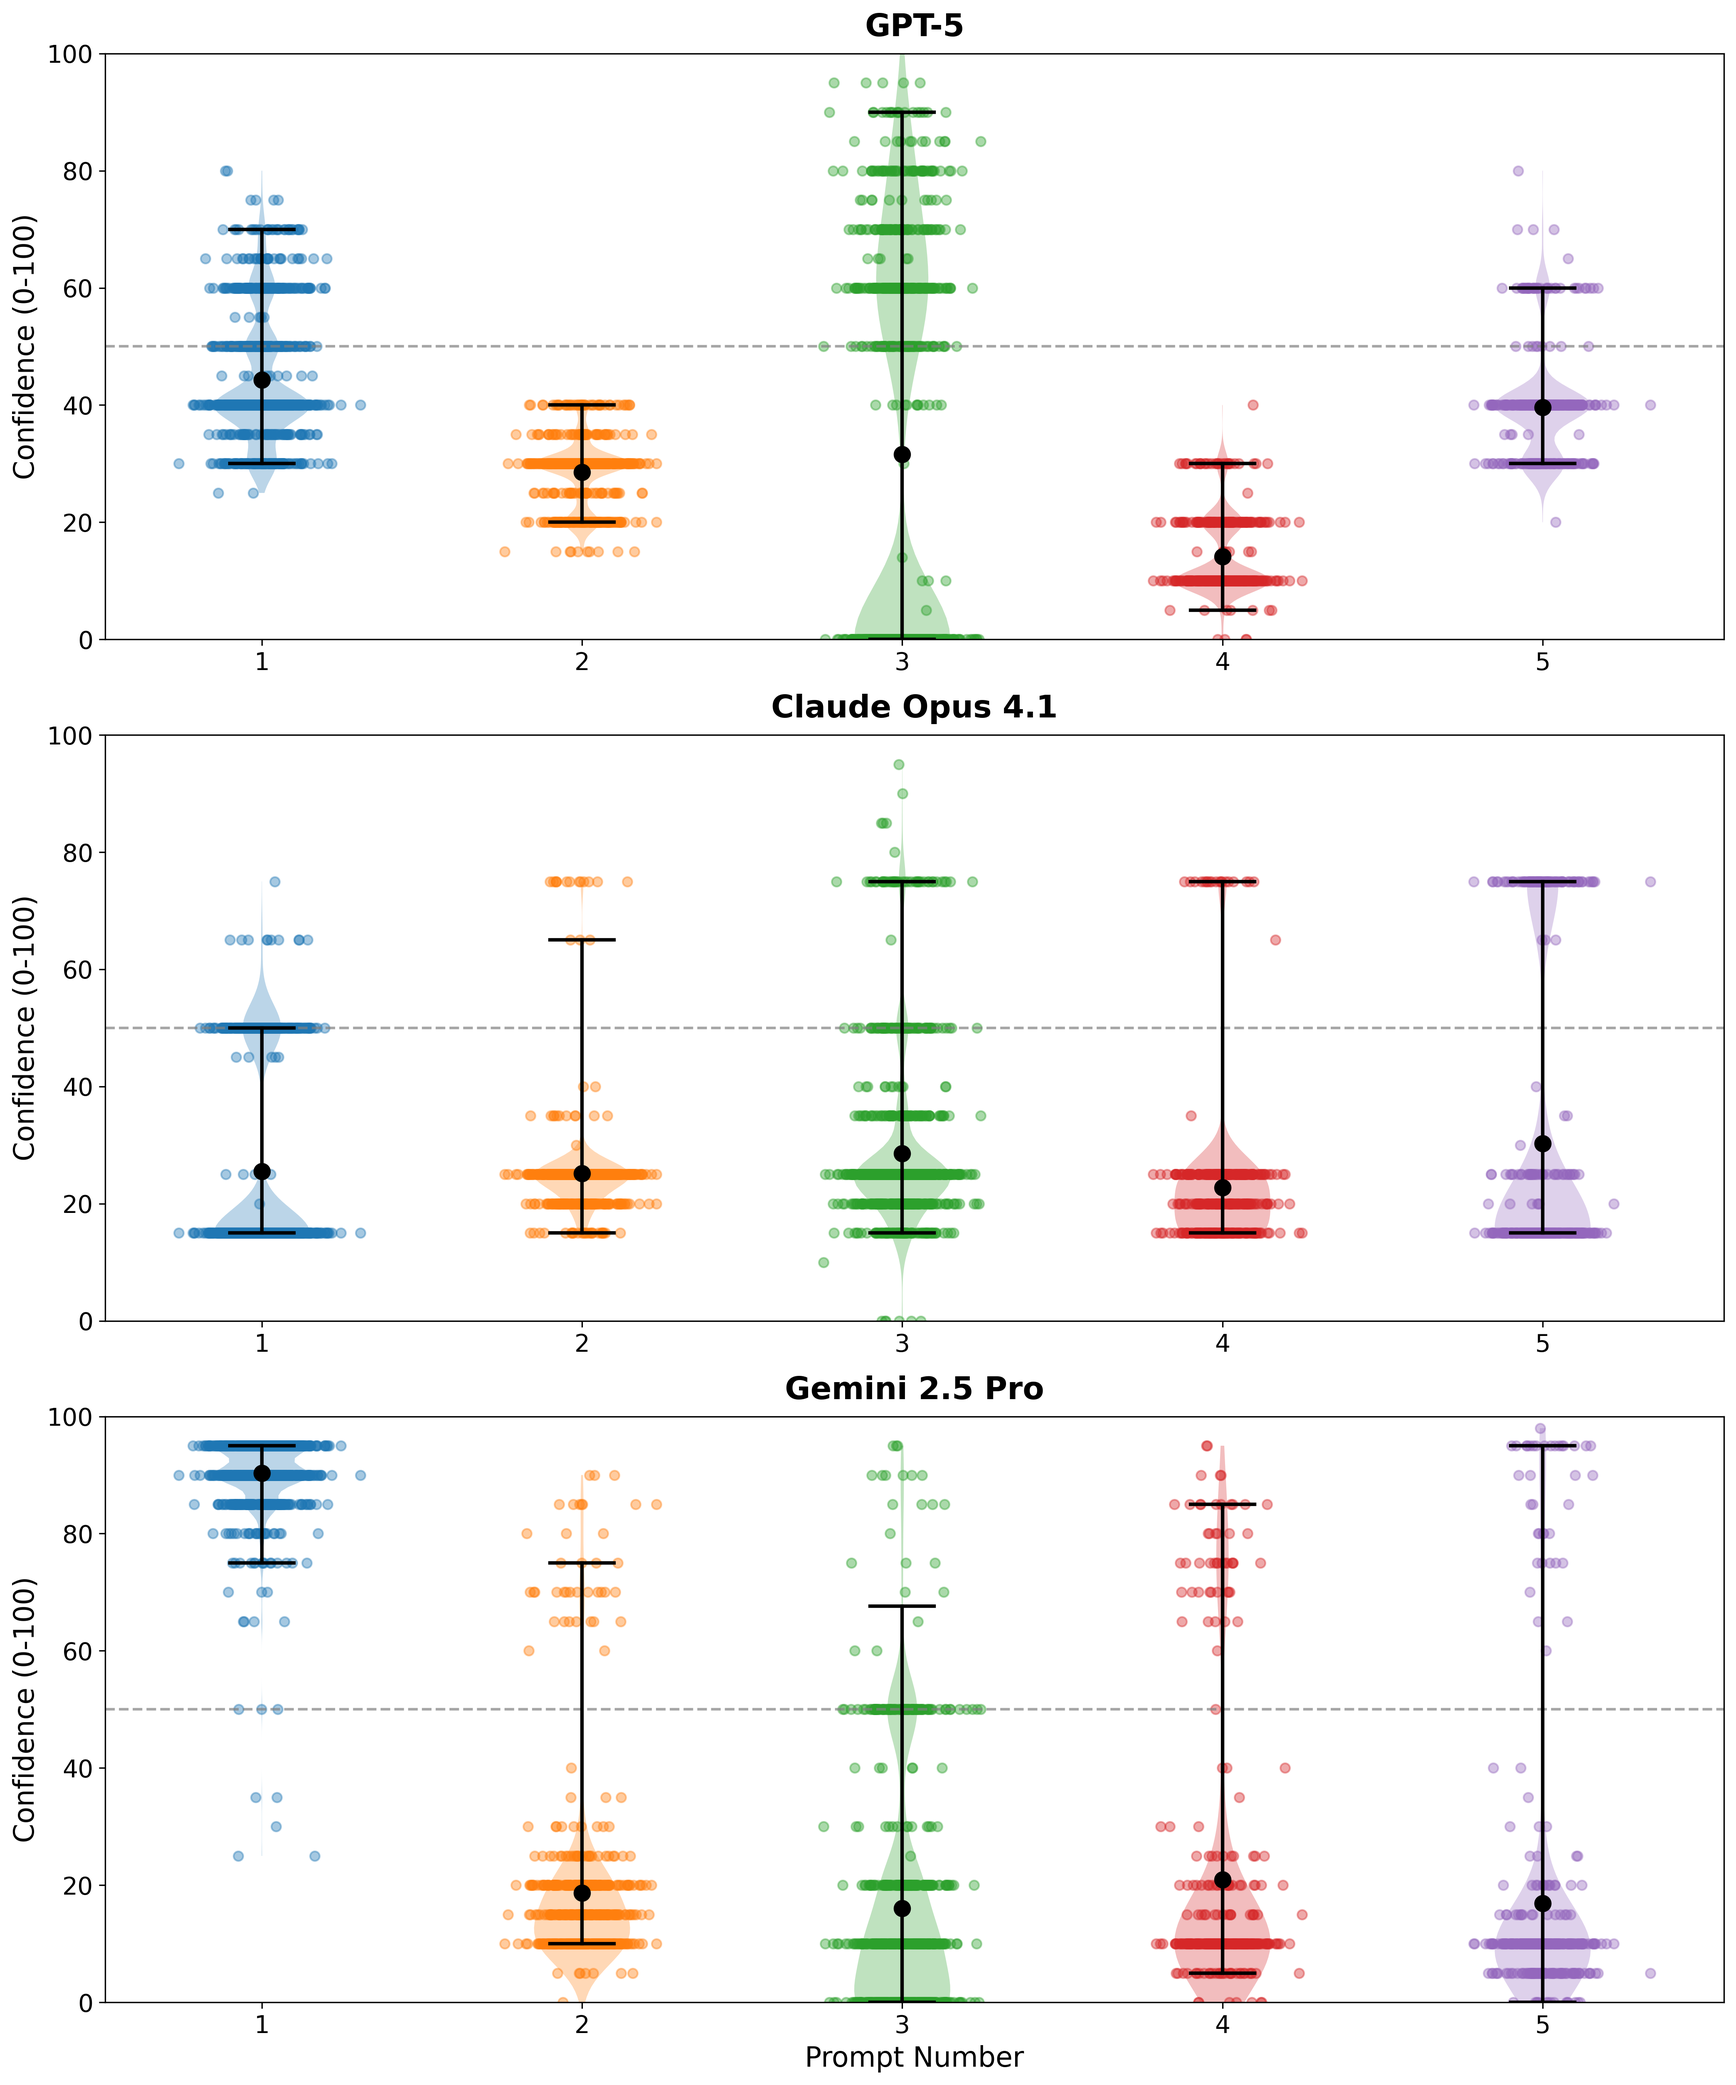
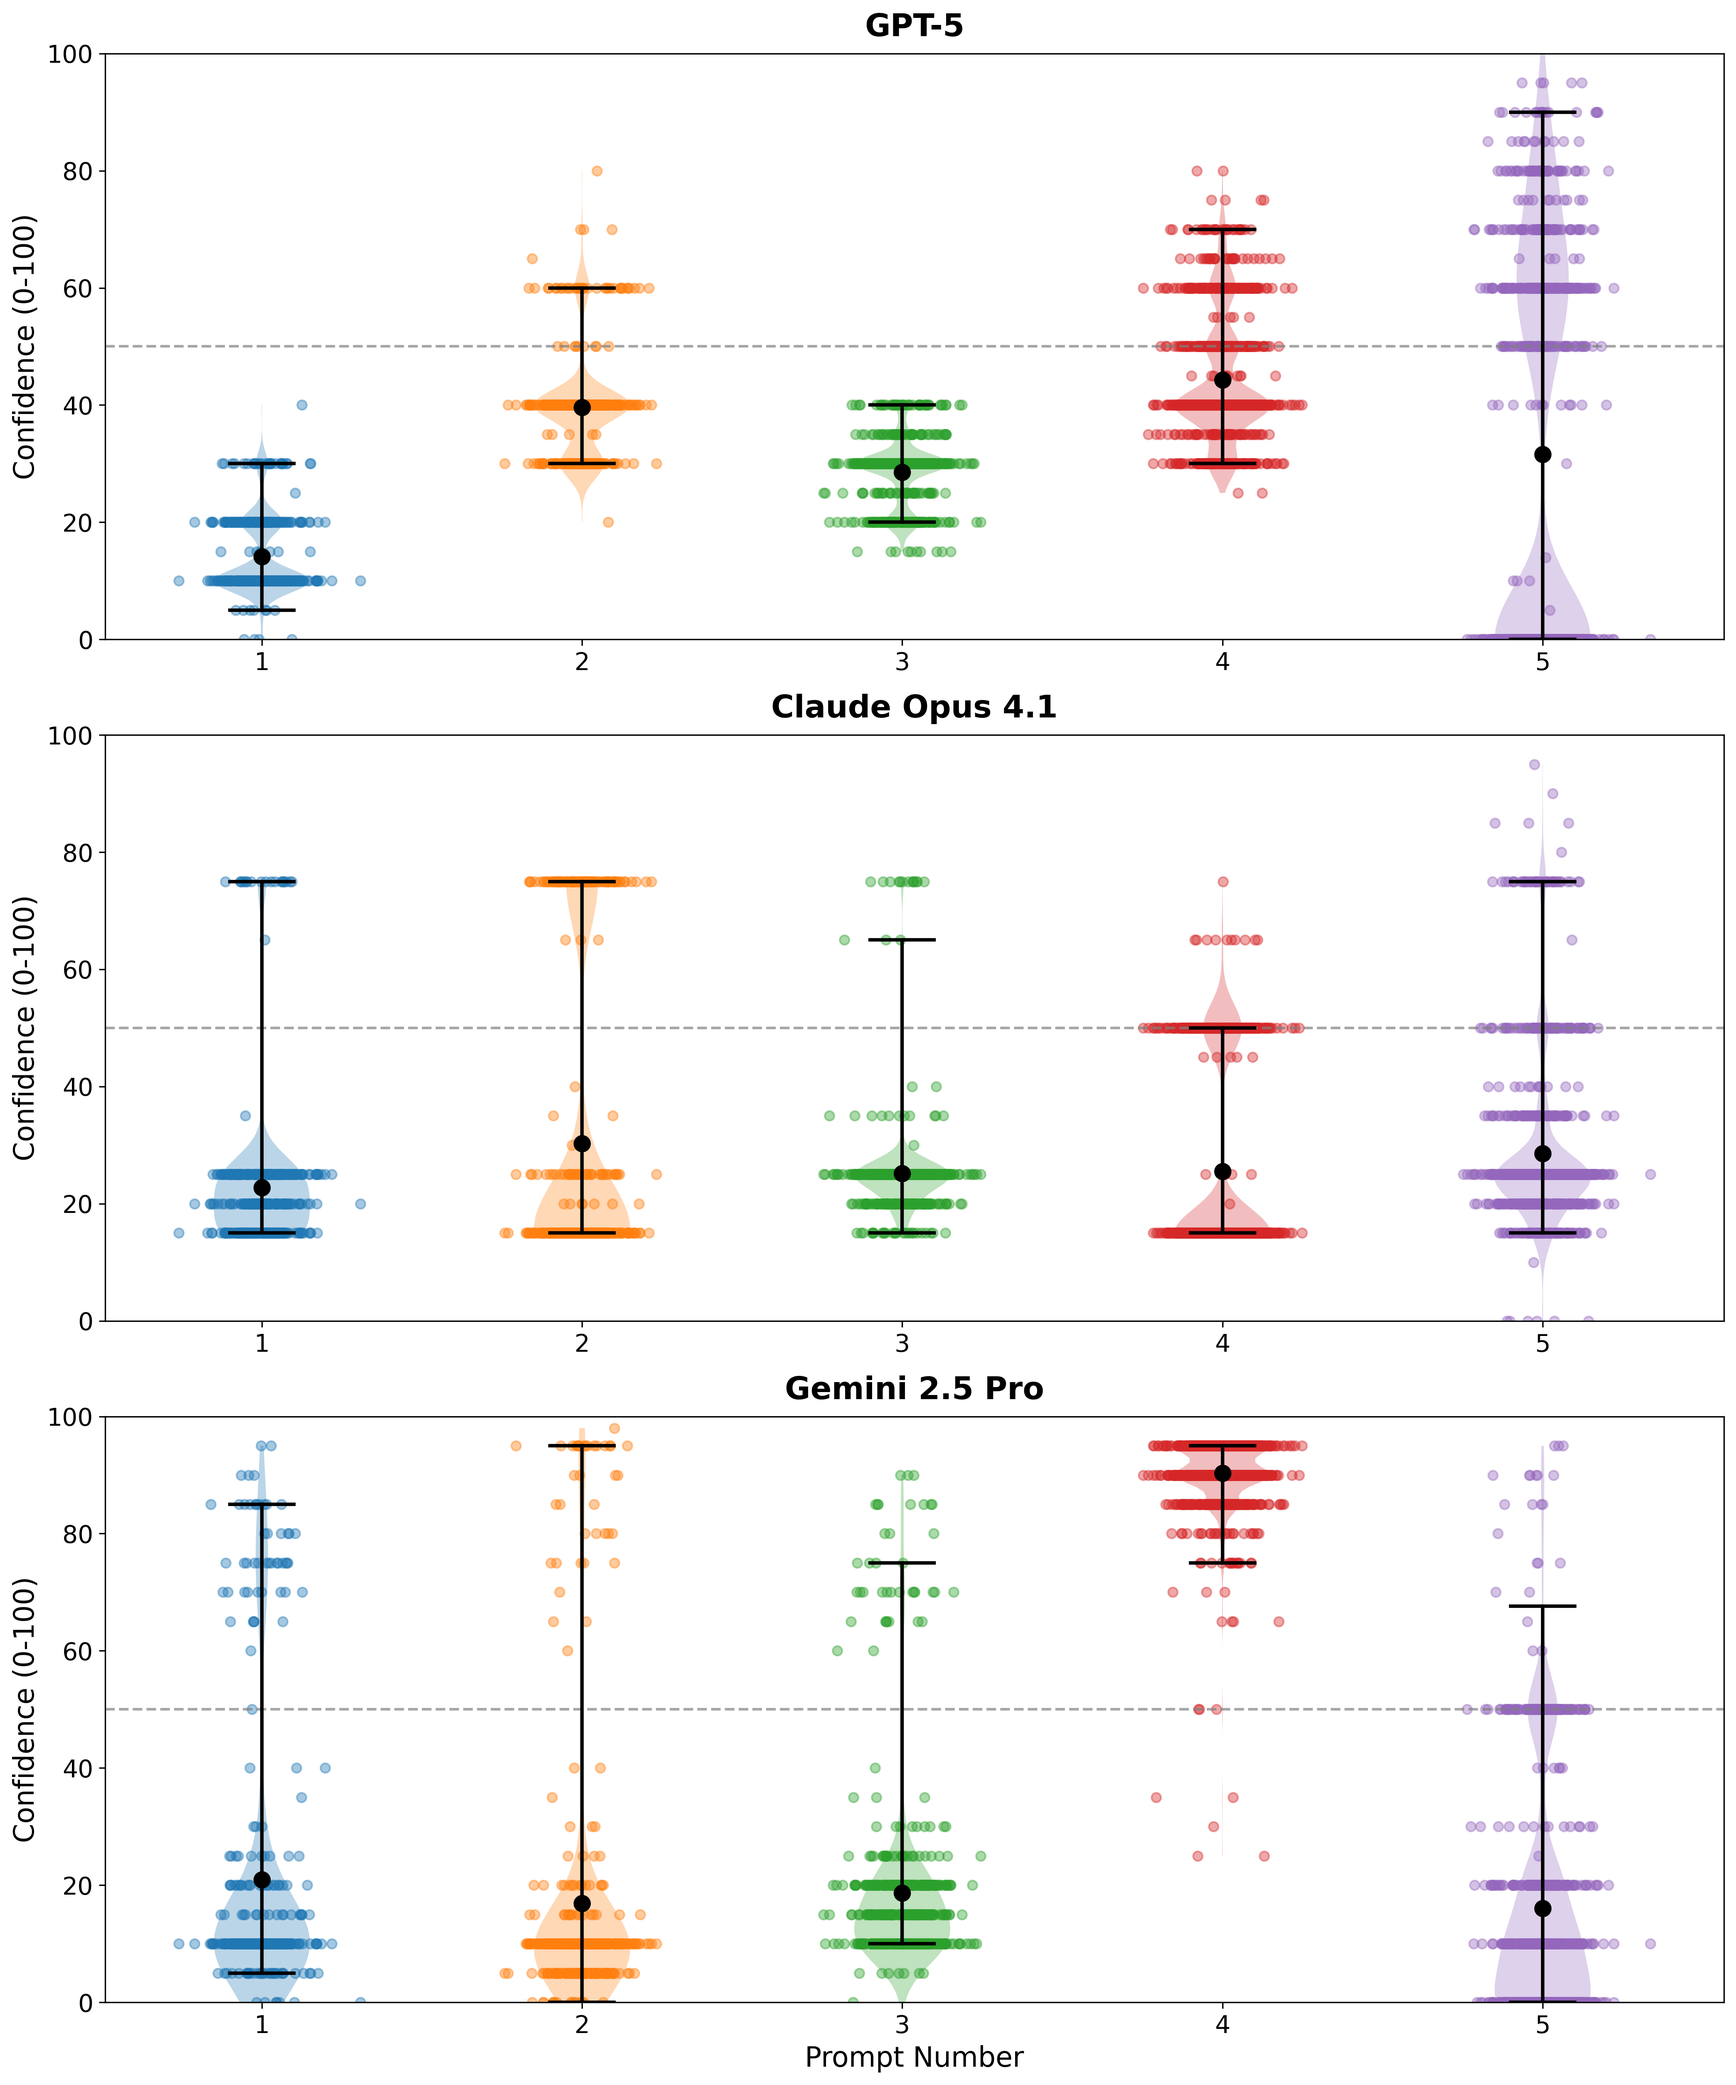
Fix scenario numbering in the Appendix C figure
create_violin_plots() sorted the scenarios alphabetically, so the x-axis
numbers did not follow the Appendix A numbering used in Table C1 and the
text: the plots labeled 1-5 were scenarios 4, 3, 5, 1 and 2. Keep the
order in which the scenarios were generated instead, and regenerate
three_model_stacked_visualization.png from the saved analysis.json.
The data are unchanged.

Also replace irrelevant_info_three_model_stacked_visualization.png (the
article's Figure C1) with the same plot in Appendix A order.

diff --git a/analysis/evaluate_irrelevant_perturbations.py b/analysis/evaluate_irrelevant_perturbations.py
@@ -819,8 +819,9 @@ def create_violin_plots(analysis: Dict, output_dir: str):
         'gemini': {'scenarios': [], 'confidence_lists': []}
     }
 
-    # Get sorted list of scenarios for consistent ordering
-    scenarios = sorted(analysis.keys())
+    # Keep scenarios in generation order so the x-axis numbers match Appendix A
+    # (sorting by name would number them alphabetically instead)
+    scenarios = list(analysis.keys())
 
     # Collect data for each model
     for scenario_idx, scenario in enumerate(scenarios):
@@ -1059,7 +1060,7 @@ def main():
                     print(f"{model.upper()}: {len(model_results)} evaluations across {len(scenarios)} scenarios")
 
             print("\nScenarios analyzed:")
-            for idx, scenario in enumerate(sorted(analysis.keys()), 1):
+            for idx, scenario in enumerate(analysis.keys(), 1):
                 print(f"  {idx}. {scenario}")
 
             # Regenerate visualization with the new format
